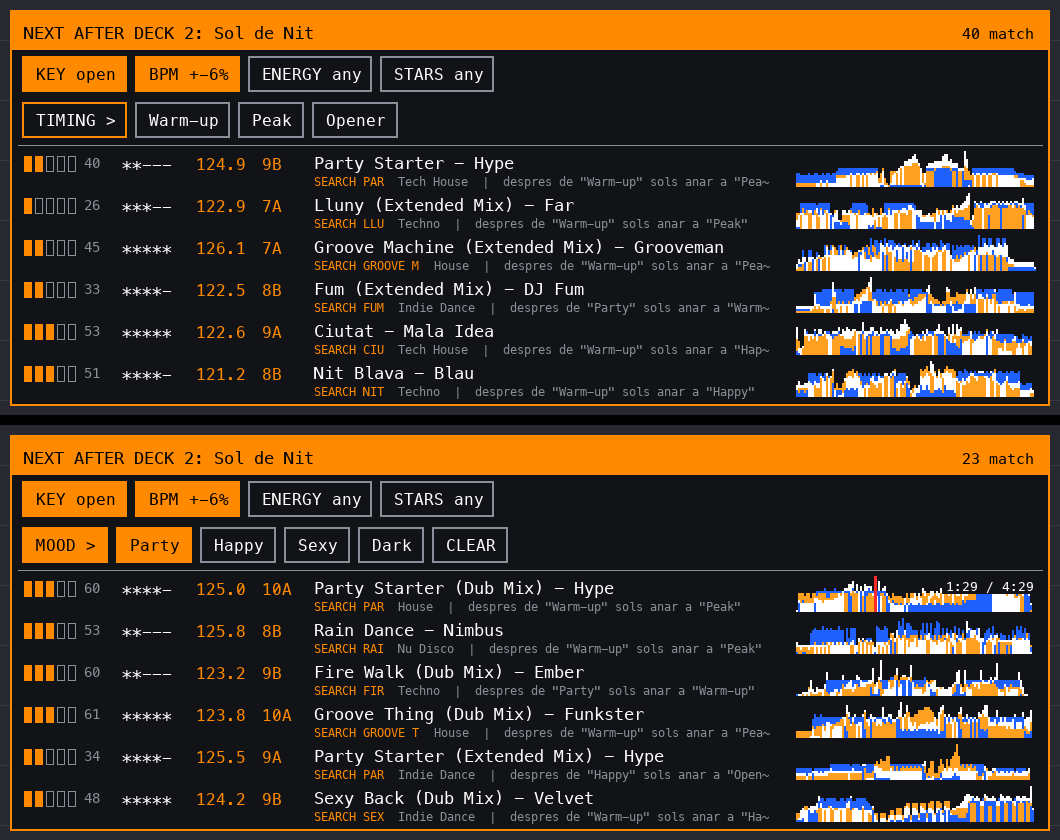
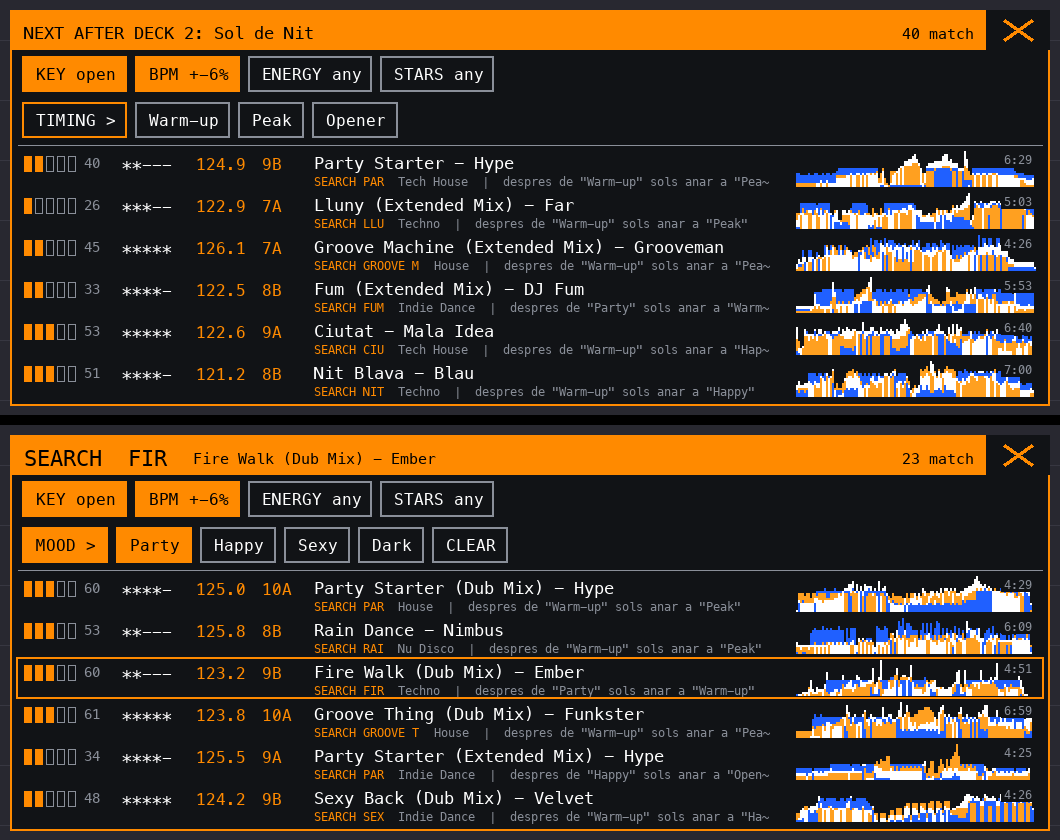
deck-suggest 0.2.3: a close button, a tap on a row puts its SEARCH letters big in the header, the waveform only shows
Scrubbing the panel's waveform played nothing (a mod has no way to the deck's preview
player), which only confused. The waveform now just shows, with the track's length; a tap on
a row frames it and writes 'SEARCH <letters>' big in the header, to type in the deck's
search, where Touch Preview plays and LOAD loads. The X folds the panel into the NEXT tab.
No touch filter any more.

diff --git a/deck-suggest/deck-suggest.c b/deck-suggest/deck-suggest.c
@@ -42,6 +42,7 @@
 #define WAVE_H (ROW_H - 6)
 #define TAB_W 150
 #define TAB_H 44
+#define CLOSE_W 64
 
 static const az_core_v1 *C;
 
@@ -72,11 +73,8 @@ static char data_state[120] = "reading the deck data...";
 static char diag[4][200];
 static atomic_int fresh;             /* the thread has a new answer for tick to show */
 static atomic_int regrouped;         /* new filter tags arrived: repaint if the panel is up */
-/* The finger, from the touch filter (bus thread) to tick and on_paint: the row being
- * scrubbed (-1 = none) and where, in thousandths of the track. */
-static atomic_int scrub_row = -1, scrub_pos, scrub_moved;
-/* The panel as the touch filter needs it (written on the UI thread). */
-static atomic_int geo_x, geo_y, geo_open, geo_rows;
+/* The row tapped on the panel (-1 = none): its SEARCH letters go big in the header. */
+static int sel_row = -1;
 
 /* ---- jobs for our thread (guarded by mu) ------------------------------------------------- */
 
@@ -411,9 +409,9 @@ static void show_answer(int deck, int now, const dd_pick *p, int n, int pass)
     memcpy(rows, got, sizeof got);
     n_rows = n;
     n_match = pass;
+    sel_row = -1;
     snprintf(note, sizeof note, "%s", n ? "" : "nothing passes these filters");
     pthread_mutex_unlock(&mu);
-    atomic_store(&geo_rows, n);
     atomic_store(&fresh, 1);
 }
 
@@ -445,7 +443,6 @@ static void run_job(const job_t *j)
         n_match = -1;
         snprintf(note, sizeof note, "%s", lib ? "this track is not in Backspins' deck data (Status says why)" : data_state);
         pthread_mutex_unlock(&mu);
-        atomic_store(&geo_rows, 0);
         atomic_store(&fresh, 1);
         return;
     }
@@ -549,9 +546,6 @@ static void place(void)
     else
         panel_rect = (az_rect){ 1280 - TAB_W - 16, y, TAB_W, TAB_H };
     C->surface_place(panel, panel_rect);
-    atomic_store(&geo_x, panel_rect.x);
-    atomic_store(&geo_y, panel_rect.y);
-    atomic_store(&geo_open, expanded && visible);
     C->surface_redraw(panel);
 }
 
@@ -560,7 +554,6 @@ static void set_visible(int on)
     if (!panel || visible == on)
         return;
     visible = on;
-    atomic_store(&geo_open, expanded && visible);
     C->surface_show(panel, on);
 }
 
@@ -693,46 +686,6 @@ static void wave_paint(az_draw *d, int x, int y, const row_t *r, uint32_t bg, in
     C->draw_image(d, x, y, px, WAVE_W, WAVE_H);
 }
 
-/* Preview the track of a row from pos (thousandths). ⚠ Not yet: the deck's preview player
- * is not reachable through the SDK, and finding it in EP147 is the next step (a hook mod).
- * Until then the finger moves the playhead and nothing plays. */
-static void preview_at(int row, int pos)
-{
-    (void)row;
-    (void)pos;
-}
-
-/* Bus thread: a finger that comes down on a row's waveform is ours until it lifts. */
-static int on_touch(const az_touch *t, void *user)
-{
-    (void)user;
-    static int ours;
-    if (!t->down) {
-        if (ours) {
-            ours = 0;
-            atomic_store(&scrub_row, -1);
-            atomic_store(&scrub_moved, 1);
-            return AZ_TOUCH_TAKE;
-        }
-        return AZ_TOUCH_PASS;
-    }
-    int x = t->x - atomic_load(&geo_x), y = t->y - atomic_load(&geo_y);
-    int row = -1;
-    if (atomic_load(&geo_open) && x >= wave_x() && x < wave_x() + WAVE_W)
-        for (int i = 0; i < atomic_load(&geo_rows); i++)
-            if (y >= wave_y(i) && y < wave_y(i) + WAVE_H)
-                row = i;
-    if (!ours && row < 0)
-        return AZ_TOUCH_PASS;
-    if (!ours)
-        atomic_store(&scrub_row, row);
-    ours = 1;
-    int pos = (x - wave_x()) * 1000 / (WAVE_W - 1);
-    atomic_store(&scrub_pos, pos < 0 ? 0 : pos > 1000 ? 1000 : pos);
-    atomic_store(&scrub_moved, 1);
-    return AZ_TOUCH_TAKE;
-}
-
 static void paint(az_draw *d, az_rect a, void *user)
 {
     (void)user;
@@ -740,13 +693,14 @@ static void paint(az_draw *d, az_rect a, void *user)
     uint32_t dim = C->color(AZ_COL_TEXT_DIM), hi = C->color(AZ_COL_HI), hit = C->color(AZ_COL_HI_TEXT);
     row_t r[ROWS];
     box_t bx[24];
-    int n, nb, deck, match;
+    int n, nb, deck, match, sel;
     char now[64], nt[96];
     pthread_mutex_lock(&mu);
     memcpy(r, rows, sizeof r);
     n = n_rows;
     match = n_match;
     deck = shown_deck;
+    sel = sel_row < n_rows ? sel_row : -1;
     snprintf(now, sizeof now, "%s", now_title);
     snprintf(nt, sizeof nt, "%s", note);
     nb = expanded ? layout(bx, 24) : 0;
@@ -760,18 +714,34 @@ static void paint(az_draw *d, az_rect a, void *user)
         text_in(d, a, a.x + 16, a.y + 10, t, 18, hi);
         return;
     }
-    char h[140];
-    if (deck >= 0 && now[0])
-        snprintf(h, sizeof h, "NEXT AFTER DECK %d: %s", deck + 1, now);
-    else
-        snprintf(h, sizeof h, "NEXT");
+    char h[160];
     C->fill_rect(d, a.x, a.y, a.w, HEAD_H, hi);
-    text_in(d, a, a.x + 14, a.y + 10, h, 17, hit);
+    /* the close button: folds the panel into the NEXT tab */
+    int cx = a.x + a.w - CLOSE_W;
+    C->fill_rect(d, cx, a.y, CLOSE_W, HEAD_H, bg);
+    C->draw_line(d, cx + 18, a.y + 10, cx + CLOSE_W - 18, a.y + HEAD_H - 10, 3, hi);
+    C->draw_line(d, cx + 18, a.y + HEAD_H - 10, cx + CLOSE_W - 18, a.y + 10, 3, hi);
+    int right = cx - 12;
     if (match >= 0) {
         char m[24];
         snprintf(m, sizeof m, "%d match", match);
         int w = C->text_width(m, 15);
-        text_in(d, a, a.x + a.w - w - 16, a.y + 12, m, 15, hit);
+        text_in(d, a, right - w, a.y + 12, m, 15, hit);
+        right -= w + 16;
+    }
+    if (sel >= 0 && r[sel].search[0]) {
+        /* a row was tapped: what to type in the deck's SEARCH, big */
+        snprintf(h, sizeof h, "SEARCH  %s", r[sel].search);
+        text_to(d, a, a.x + 14, a.y + 6, h, 22, hit, right);
+        int w = C->text_width(h, 22) + 24;
+        snprintf(h, sizeof h, "%s - %s", r[sel].title, r[sel].artist);
+        text_to(d, a, a.x + 14 + w, a.y + 12, h, 15, hit, right);
+    } else {
+        if (deck >= 0 && now[0])
+            snprintf(h, sizeof h, "NEXT AFTER DECK %d: %s", deck + 1, now);
+        else
+            snprintf(h, sizeof h, "NEXT");
+        text_to(d, a, a.x + 14, a.y + 10, h, 17, hit, right);
     }
     for (int i = 0; i < nb; i++) {
         box_t *b = &bx[i];
@@ -820,16 +790,17 @@ static void paint(az_draw *d, az_rect a, void *user)
         snprintf(s, sizeof s, "%s  |  %s", r[i].genre, r[i].why);
         text_to(d, a, sx, y + 24, s, 12, dim, right);
         if (r[i].has_wave) {
-            int cur = atomic_load(&scrub_row) == i ? atomic_load(&scrub_pos) : -1;
-            wave_paint(d, a.x + wave_x(), a.y + wave_y(i), &r[i], bg, cur);
-            if (cur >= 0 && r[i].secs > 0) {
-                int at = r[i].secs * cur / 1000;
-                snprintf(s, sizeof s, "%d:%02d / %d:%02d", at / 60, at % 60, r[i].secs / 60, r[i].secs % 60);
-                int w = C->text_width(s, 13);
-                C->fill_rect(d, a.x + wave_x() + WAVE_W - w - 8, a.y + wave_y(i), w + 8, 18, bg);
-                text_in(d, a, a.x + wave_x() + WAVE_W - w - 4, a.y + wave_y(i) - 1, s, 13, text);
+            /* the shape only: the panel cannot play sound (preview in the deck's browser) */
+            wave_paint(d, a.x + wave_x(), a.y + wave_y(i), &r[i], bg, -1);
+            if (r[i].secs > 0) {
+                snprintf(s, sizeof s, "%d:%02d", r[i].secs / 60, r[i].secs % 60);
+                int w = C->text_width(s, 12);
+                C->fill_rect(d, a.x + wave_x() + WAVE_W - w - 6, a.y + wave_y(i), w + 6, 16, bg);
+                text_in(d, a, a.x + wave_x() + WAVE_W - w - 3, a.y + wave_y(i) - 1, s, 12, dim);
             }
         }
+        if (i == sel)
+            C->draw_rect(d, a.x + 6, y, a.w - 12, ROW_H, 2, hi);
     }
 }
 
@@ -857,9 +828,22 @@ static int surface_input(const az_event *ev, void *user)
     }
     int x = ev->x - panel_rect.x, y = ev->y - panel_rect.y;
     if (y < HEAD_H) {
+        /* the close button, or the header: fold into the NEXT tab */
         expand(0);
         return 1;
     }
+    int y0 = HEAD_H + 2 * FILT_H + 6;
+    if (y >= y0) {
+        /* a row: its SEARCH letters go big in the header (tap again to go back) */
+        int i = (y - y0) / ROW_H;
+        pthread_mutex_lock(&mu);
+        if (i < n_rows)
+            sel_row = sel_row == i ? -1 : i;
+        pthread_mutex_unlock(&mu);
+        C->surface_redraw(panel);
+        return 1;
+    }
+    (void)x;
     box_t bx[24];
     int changed = 0;
     pthread_mutex_lock(&mu);
@@ -1110,8 +1094,6 @@ static int init(const az_core_v1 *core)
     place();
     if (C->on_deck_event(MOD_ID, on_deck, NULL) != 0)
         return 2;
-    if (AZ_HAS(C, touch_filter))
-        C->touch_filter(MOD_ID, on_touch, NULL);
     if (C->thread_start(MOD_ID, "deck-suggest", worker, NULL) != 0)
         return 3;
     if (AZ_HAS(C, lib_tracks) && C->thread_start(MOD_ID, "deck-library", mapper, NULL) != 0)
@@ -1134,13 +1116,6 @@ static void tick(void)
         set_visible(0);
     if (atomic_exchange(&regrouped, 0) && visible)
         C->surface_redraw(panel);
-    if (atomic_exchange(&scrub_moved, 0) && visible) {
-        touched_at = t;
-        int row = atomic_load(&scrub_row);
-        if (row >= 0)
-            preview_at(row, atomic_load(&scrub_pos));
-        C->surface_redraw(panel);
-    }
     int h = value(row_hold, 1);
     double hold = HOLD_S[h >= 0 && h < 4 ? h : 1];
     if (expanded && hold > 0 && t - touched_at > hold)

diff --git a/README.md b/README.md
@@ -63,8 +63,10 @@ i el que sona a l'altre deck tampoc.
 i al navegador de l'AZ hi ha el tema amb la seva forma d'ona: Touch Preview amb el dit
 (LINK CUE) i LOAD, com sempre. El panell no fa so: el so és sempre el del navegador de l'AZ.
 
-Un toc a la capçalera plega el panell en una pestanya **NEXT**; un toc a la pestanya l'obre.
-Es plega sol quan fa estona que no el toques.
+Un toc a una fila posa les seves lletres de **SEARCH** en gran a la capçalera. La **✕** (o un
+toc a la capçalera) plega el panell en una pestanya **NEXT**; un toc a la pestanya l'obre. Es
+plega sol quan fa estona que no el toques. La forma d'ona del panell és només per veure-la: el
+panell no fa so.
 
 **b2b:** engega el deck amb el teu SSD a **USB 1** (AZ-MODS carrega els mods d'aquí). Si el teu
 company carrega un tema del seu disc que no és a la teva biblioteca, el panell ho diu i prou;
